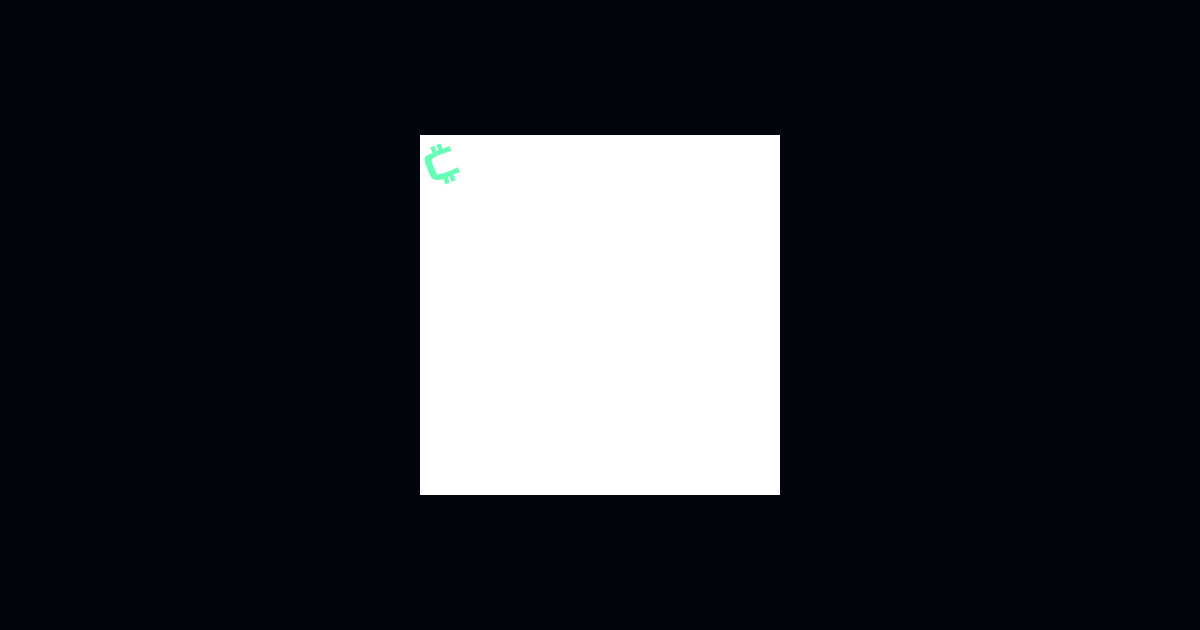
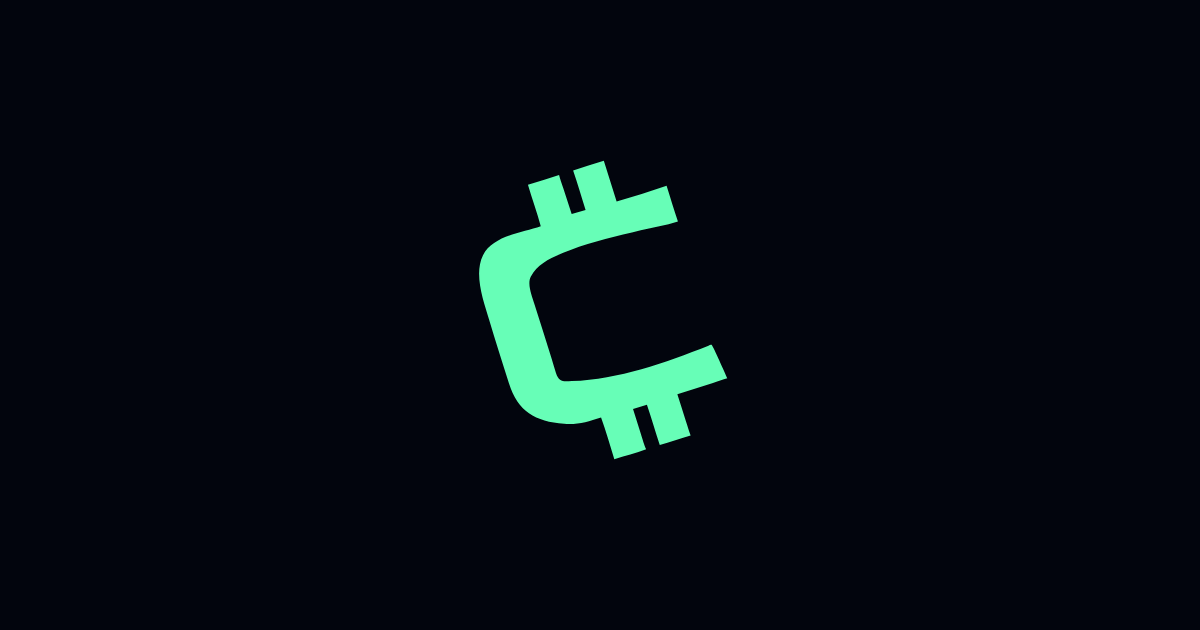
V48 (impl-only): Fix OG mark rasterization
Regenerate square/OG PNGs with a centered mark on #02050d, add a
macOS generator script, and document the naïve SVG→PNG pitfall plus
uapi Jest CLI double-dash ban.

Changed region(s): [[0.3392, 0.2111, 0.6475, 0.7841]]

diff --git a/.docs/AGENTS.md b/.docs/AGENTS.md
@@ -54,6 +54,15 @@
     pnpm -C apps/uapi run build
     ```
     Plus **focused Jest / package tests for every package touched** (not “only the happy path test file”). When the change set affects shared agent/pipeline packages, also run those package suites green.
+  - **uapi Jest CLI (required form):** invoke Jest via `exec`, pass flags **without** a bare `--` separator:
+    ```bash
+    # Correct
+    pnpm -C apps/uapi exec jest --testPathPattern='marketingLandingPage'
+    pnpm -C apps/uapi exec jest --runInBand --testPathPattern='deposit|readPage'
+    # Also OK: script name with flags glued (no bare --)
+    pnpm -C apps/uapi test --testPathPattern='marketingLandingPage'
+    ```
+    **Ban:** `pnpm -C apps/uapi test -- --testPathPattern=…` (and the same pattern with extra flags after a bare `--`). pnpm/Jest then treat the flag string as a path pattern (`Pattern: --testPathPattern=…|…`), report **“No tests found”** with exit 1, and fake a red suite even when tests exist. Prefer `exec jest` (see `CONTRIBUTING.md` §8.3).
   - **After lint-build is green**, if the branch is pushed and GitHub runs `test-mocks` / other required jobs, those must be green before treating the commit as deployable; prefer running the equivalent locally when the change can affect uapi Jest.
   - Gate / version work also requires living **active + draft** quality (gate-quality / canon-quality). Version → `main` requires the **promotion** workflow green.
   - Partial smoke (`jest path/to/one.test.ts` alone) is **iteration only** — **never** a commit bar. “I typechecked in my head,” “eslint passed last hour,” or “CI will catch it” are **not** substitutes.

diff --git a/CONTRIBUTING.md b/CONTRIBUTING.md
@@ -485,7 +485,9 @@ Gate / version work also needs the living **active + draft** quality surface
 # UAPI
 pnpm -C apps/uapi run typecheck
 pnpm -C apps/uapi run lint
+# Focused Jest — use `exec jest`; pass flags with no bare `--` separator
 pnpm -C apps/uapi exec jest --runInBand --testPathPattern='deposit'
+pnpm -C apps/uapi exec jest --testPathPattern='marketingLandingPage|navBrand'
 
 # Core packages (examples)
 pnpm --filter @bitcode/btd test
@@ -507,7 +509,29 @@ node scripts/check-bitcode-spec-family.mjs --version V48 --mode draft --current-
 
 # Spec quality helper (active + draft only)
 node scripts/run-bitcode-spec-quality.mjs --mode basic
+```
 
+**uapi Jest CLI pitfall (do not repeat):** never run
+
+```bash
+# BAD — bare `--` after `test` mangles flags into the path pattern
+pnpm -C apps/uapi test -- --testPathPattern='marketingLandingPage' --passWithNoTests=false
+```
+
+Jest then prints something like `Pattern: --testPathPattern=…|…` / **No tests found**
+and exits 1 even though the suite exists. That is a **false red**, not a missing
+test. Prefer:
+
+```bash
+# GOOD
+pnpm -C apps/uapi exec jest --testPathPattern='marketingLandingPage'
+# or, without a bare `--`:
+pnpm -C apps/uapi test --testPathPattern='marketingLandingPage'
+```
+
+Agents: same rule is mirrored in `.docs/AGENTS.md` (living CI block).
+
+```bash
 # UI SSOT + casing
 pnpm run verify:ui
 bash scripts/find-uppercase-raw-promptparts.sh

diff --git a/apps/uapi/public/README-logo.md b/apps/uapi/public/README-logo.md
@@ -21,9 +21,25 @@ Do **not** invent alternate marks. Edit the `.pxd`, export `bitcode-logo.svg`, t
 |------|---------|
 | `logo.svg`, `icon.svg`, `icons/logo.svg`, `email-logo.svg` | Alias copies of `bitcode-logo.svg` |
 | `favicon-16x16.png`, `favicon-32x32.png` | Browser tab icons |
-| `apple-touch-icon.png` | iOS home screen |
+| `apple-touch-icon.png` | iOS home screen / rich link previews |
 | `android-chrome-192x192.png`, `android-chrome-512x512.png` | Android |
 | `og-image.png` | Open Graph / message previews (1200×630, mark on `#02050d`) |
+
+### Regenerate rasters (required after any mark change)
+
+```bash
+# From repo root (macOS: Google Chrome + sips)
+node scripts/generate-bitcode-logo-assets.mjs
+```
+
+**Do not** convert `bitcode-logo.svg` with a naïve SVG→PNG tool into a large square.
+The SSOT SVG is a **non-square** mark (intrinsic ~36×49, viewBox `-8 -5 52 59`).
+Naïve rasterizers paste that tiny frame into a white canvas → **tiny logo in the
+corner of a large white square** (broken link-preview / apple-touch favicon).
+
+The generator nests the mark in a square (or 1200×630 OG) frame on `#02050d`,
+scales it to ~75% of the content box, and centers it — then resizes to each
+favicon size.
 
 ## In-app React
 
